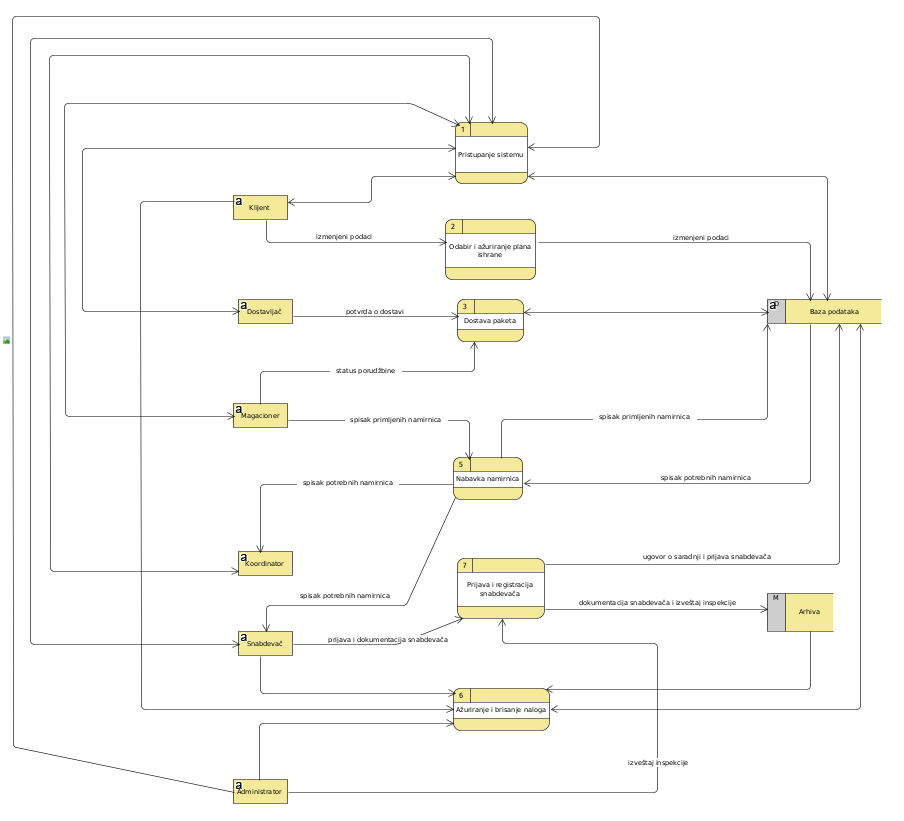
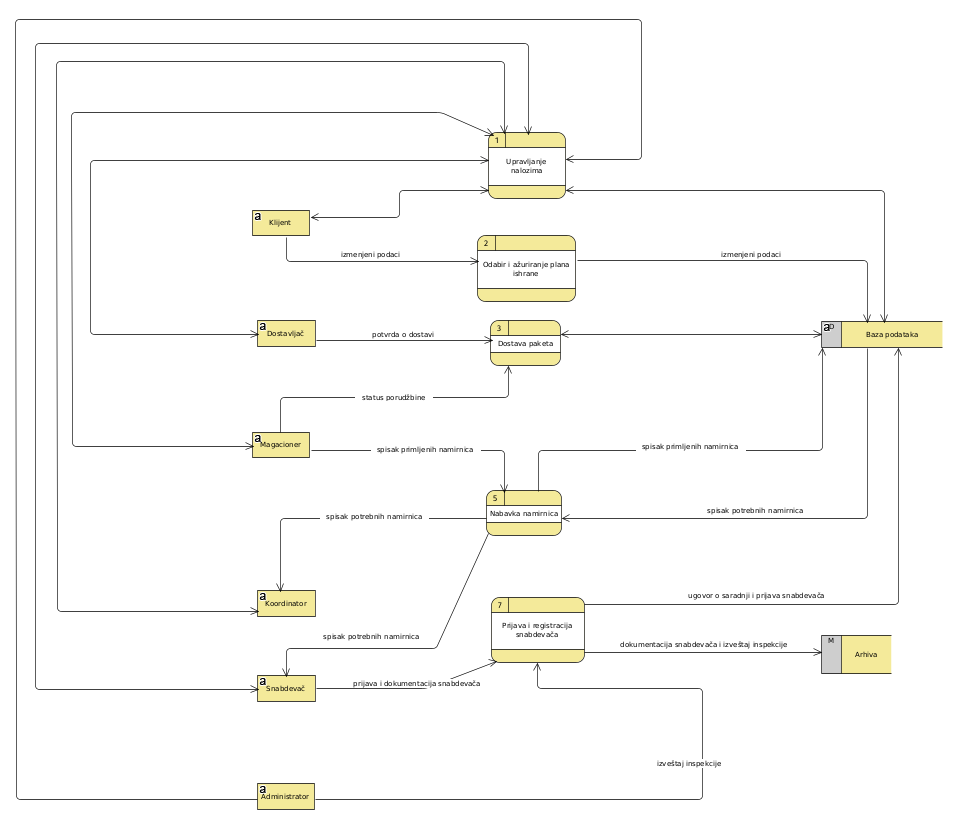
Fix minor errors

diff --git a/Sections/2_analiza_sistema.tex b/Sections/2_analiza_sistema.tex
@@ -10,7 +10,7 @@
 		\item{\textbf{Magacioner}} - pakuje pakete koji treba da se dostave u toku nedelje. Prima dostavljene namirnice i raspoređuje ih po magacinu.
 		\item{\textbf{Koordinator}} - zadužen je za kontrolu magacina, koliko i kojih namirnica dolazi i odlazi iz magacina. U slučaju nedostatka određenih namirnica mora da kontaktira snabdevače kako bi ih nabavio.
 		\item{\textbf{Snabdevač}} - proizvodi određene namirnice i u obavezi je da dostavi koordinatoru određenu količinu namirnica na njegov zahtev. Ima pristup sistemu, ali ne predstavlja zapošljeno lice u kompaniji HelloFresh.
-		\item{\textbf{Administrator}} - objavljuje konkurs za snabdevače, sklapa ugovor o zaposlenju i pravi ugovor o saradnji sa snabdevačima.
+		\item{\textbf{Administrator}} - objavljuje konkurs za snabdevače, pravi ugovor o saradnji sa snabdevačima i zapošljava nova lica. 
 		
 		U daljem tekstu pod terminom \textit{zapošljena lica} podrazumevamo dostavljača, magacionera i koordinatora, dok pod terminom \textit{korisnici} podrazumevamo sve aktere u sistemu. Na slici \ref{fig:context_diagram} prikazan je dijagram aktivnosti na kome su predstavljeni svi akteri sistema.
 		
@@ -23,14 +23,15 @@
 		\includegraphics[width=\textwidth]{context_diagram.png}
 
 	    \caption{Dijagram konteksta}
+	\label{fig:context_diagram}
     \end{center}
-    \label{fig:context_diagram}
+    
 \end{figure}
 
 	Na slici \ref{fig:DFD} prikazan je dijagram toka podataka nivoa 0. U nastavku su ukratko objašnjeni procesi predstavljeni dijagramom.
 	
 	
-	\textbf{Pristup sistemu}: Ovim procesom je obuhvaćena registracija klijenta i zaposlenih, kao i prijavljivanje korisnika sistemu. 
+	\textbf{Upravljanje nalozima}: Ovim procesom je obuhvaćena registracija klijenta i zaposlenih, kao i prijavljivanje korisnika sistemu. Uključuje ažuriranje i brisanje naloga klijenta, zaposlenih i snabdevača.
 	
 	\textbf{Odabir i ažuriranje plana ishrane}: Podrazumeva inicijalni odabir plana ishrane klijenta koji se pretplaćuje, kao i proces kasnijeg ažuriranja plana ishrane.
 		
@@ -41,8 +42,6 @@
 	
 	
 	\textbf{Prijava i registracija snabdevača}: Ovaj proces je drugačiji od registracije klijenta i zaposlenih jer zahteva dodatne podatke (izveštaj inspekcije, prijavu snabevača dobijenu apliciranjem snabdevača, i dokumentaciju snabdevača).
-	
-	\textbf{Ažuriranje i brisanje naloga}: Uključuje ažuriranje i brisanje naloga klijenta, zaposlenih i snabdevača.
 
 
 \begin{figure}[H]
@@ -50,8 +49,9 @@
 		\includegraphics[width=\textwidth]{dfd.png}
 
     		\caption{Dijagram toka podataka nivoa 0}
-    \end{center}
     \label{fig:DFD}
+    \end{center}
+ 
 \end{figure}
 
 	

diff --git a/Sections/UseCases/PackageDeliveryToTheCustomer/7_package_delivery.tex b/Sections/UseCases/PackageDeliveryToTheCustomer/7_package_delivery.tex
@@ -4,12 +4,12 @@
 	\begin{itemize}
 		\item{Kratak opis:} 
 		\begin{itemize}
-			\item{Dostavljač dobija informacije o paketu od sistema i dostavlja paket korisniku.}
+			\item{Dostavljač dobija informacije o paketu od sistema i dostavlja paket klijentu.}
 		\end{itemize}
 		
 		\item{Učesnici:} 
 		\begin{itemize}
-			\item{Dostavljač, korisnik}
+			\item{Dostavljač, klijent}
 		\end{itemize}		
 		
 		\item{Preduslovi:}
@@ -20,7 +20,7 @@
 
 		\item{Postuslovi:}
 		\begin{itemize}
-			\item{Korisnik dobija svoj paket sa namirnicama.}
+			\item{Dostava je evidentirana u sistemu.}
 		\end{itemize}		
 		
 		\item{Osnovni tok:}
@@ -28,8 +28,8 @@
 			\item{Dostavljač dobija obaveštenje od sistema da ima nedostavljenih paketa.}
 			\item{Dostavljač dolazi do magacina gde su smešteni paketi.}
 			\item{Dostavljač očitava identifikacioni broj paketa pomoću sistema i dobija informacije o porudžbini.}
-			\item{Dostavljač dolazi do destinacije korisnika u predviđenom periodu.}
-			\item{Korisnik preuzima svoj paket.}
+			\item{Dostavljač dolazi do destinacije klijenta u predviđenom periodu.}
+			\item{Klijent preuzima svoj paket.}
 			\item{Dostavljač beleži da je uspešno izvršio dostavu.}
 			
 			
@@ -38,8 +38,9 @@
 		
 		\item{Alternativni tokovi:}
 			\begin{enumerate}
-				\item[4.a] Ukoliko dostavljač proceni da će kasniti, obaveštava korisnika pomoću sistema.
-				\item[5.a] Ukoliko korisnik nije na naznačenoj adresi, dostavljač ostavlja paket ispred ulaza. Slučaj upotrebe se nastavlja od koraka 6.%Sistem obaveštava korisnika da dostavljač nije uspeo da dostavi paket i traži od korisnika da potvrdi svoju adresu. Ako je korisnik promenio adresu, sistem ga navodi na opciju ažuriranja naloga.  
+				\item[4.a] Ukoliko dostavljač proceni da će kasniti, obaveštava klijenta pomoću sistema. Slučaj upotrebe se nastavlja od koraka 5.
+				\item[5.a] Ukoliko klijent nije na naznačenoj adresi, dostavljač ostavlja paket ispred ulaza i preko sistema obaveštava klijenta da je paket dostavljen. Slučaj upotrebe se nastavlja od koraka 6.
+				%Sistem obaveštava korisnika da dostavljač nije uspeo da dostavi paket i traži od korisnika da potvrdi svoju adresu. Ako je korisnik promenio adresu, sistem ga navodi na opciju ažuriranja naloga.  
 			\end{enumerate}
 		\item{Dodatne informacije:}
 			\begin{itemize}

diff --git a/Sections/UseCases/PackageDeliveryToTheCustomer/12_scheduling_deliveries.tex b/Sections/UseCases/PackageDeliveryToTheCustomer/12_scheduling_deliveries.tex
@@ -22,9 +22,11 @@
 	\item Osnovni tok:
 		\begin{enumerate}
             \item Koordinator pristupa sistemu i prolazi kroz sve narudžbine koje bi trebalo da se obave sledeće nedelje.
+            \item Sistem pristupa bazi podataka i generiše listu svih zakazanih narudžbina za sledeću nedelju.
            \item Koordinator svakoj narudžbini dodeljuje dostavljača.
+           \item Sistem svakoj narudžbini ažurira dodeljenog dostavljača.
             \item Koordinator dostavljačima preko sistema prosleđuje njegovu listu isporuka za narednu nedelju.
-            \item Sistem krajnjem korisniku šalje automatski mejl kojim ga obaveštava da je porudžbina obrađena i podseća  ga u koje vreme mora da bude kod kuće da bi primio porudžbinu.
+            \item Sistem klijentu šalje automatski mejl kojim ga obaveštava da je porudžbina obrađena i podseća  ga u koje vreme mora da bude kod kuće da bi primio porudžbinu.
 		\end{enumerate}
    \item Dodatne informacije:
         \begin{itemize}

diff --git a/Sections/UseCases/GroceryDelivery/9_receiving_groceries.tex b/Sections/UseCases/GroceryDelivery/9_receiving_groceries.tex
@@ -40,8 +40,7 @@
 		
 		\item{Alternativni tok:}
 			\begin{enumerate}
-				\item[4.a] {Magacioner vrši evidenciju namirnica koje se ne poklapaju na spiskovima i kako se ne poklapaju.} 
-				\item[4.b]{Magacioner preuzima samo namirnice koje se poklapaju na spiskovima i u potrebnoj količini ili manjoj. Slučaj upotrebe se nastavlja od koraka 5.}
+				\item[4.a] {Magacioner vrši evidenciju namirnica koje se ne poklapaju na spiskovima i kako se ne poklapaju. Magacioner preuzima samo namirnice koje se poklapaju na spiskovima i u potrebnoj količini ili manjoj. Slučaj upotrebe se nastavlja od koraka 5.}
 			\end{enumerate}
 		\item{Dodatne informacije}
 			\begin{itemize}

diff --git a/Sections/UseCases/PackageDeliveryToTheCustomer/8_packaging.tex b/Sections/UseCases/PackageDeliveryToTheCustomer/8_packaging.tex
@@ -32,7 +32,6 @@
 			\item{Sistem ažurira status porudžbine.}
 
 
-			\textit{Koraci 1-7 se ponavljaju sve dok ima nedostavljenih paketa.}
 		\end{enumerate}
 		\item{Dodatne informacije:}
 		\begin{itemize}
